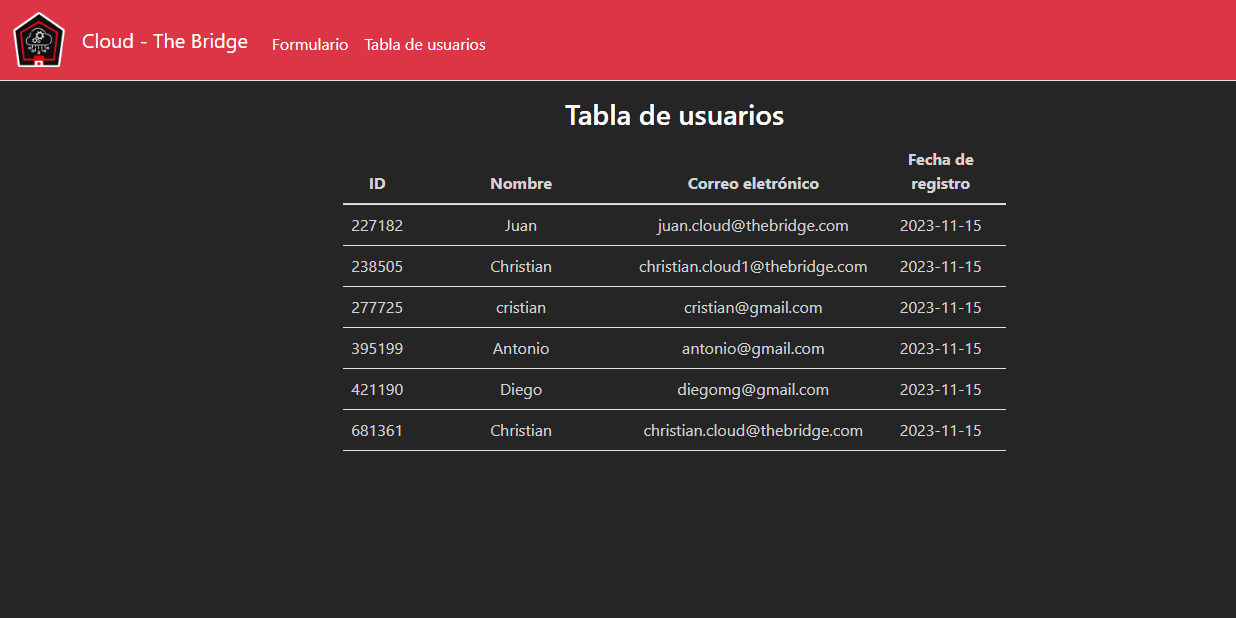
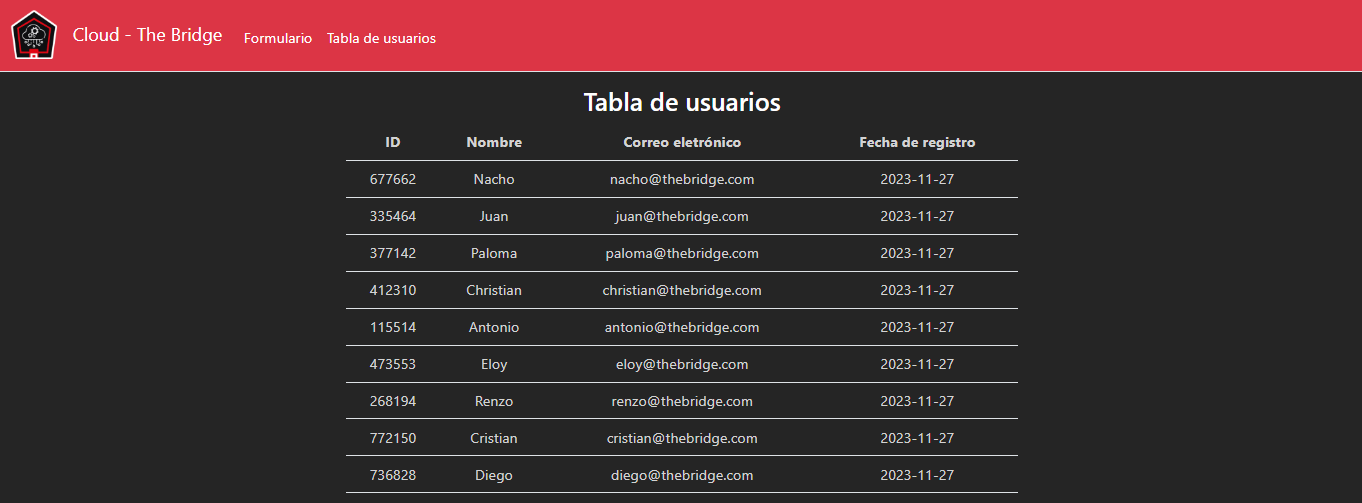
terminamos parte 2

diff --git a/web/templates/loading.html b/web/templates/loading.html
@@ -4,6 +4,18 @@
     Tabla de usuarios
 {% endblock %}
 
+{% block script %}
+    <script>
+        function navigate() {
+        window.location.href = 'data';  // redirect when done!
+        }
+        function sleep(ms) {
+            return new Promise(resolve => setTimeout(resolve, ms));
+        }
+        sleep(3000).then(navigate); // load the slow url then navigate
+    </script>
+{% endblock %}
+
 {% block main %}
     <h3 class="section-title">Tabla de usuarios</h3>
     <table class="table mx-auto w-50">
@@ -15,15 +27,8 @@
                 <th scope="col">Fecha de registro</th>
             </tr>
         </thead>
-        <tbody>
-        {% for item in items %}
-            <tr>
-                <td class="center-align">{{ item["ID"] }}</td>
-                <td class="center-align">{{ item["nombre"] }}</td>
-                <td class="center-align">{{ item["email"] }}</td>
-                <td class="center-align">{{ item["registro"] }}</td>
-            </tr>
-        {% endfor %}
-        </tbody>
     </table>
+    <br>
+    <div class="lds-facebook"><div></div><div></div><div></div>
+
 {% endblock %}

diff --git a/web/static/styles.css b/web/static/styles.css
@@ -38,6 +38,7 @@ main {
     text-align: center;
 }
 
+/* Start of waiting animation */
 .lds-facebook {
     display: inline-block;
     position: relative;
@@ -49,7 +50,7 @@ main {
     position: absolute;
     left: 8px;
     width: 16px;
-    background: #fff;
+    background: #d9534f;
     animation: lds-facebook 1.2s cubic-bezier(0, 0.5, 0.5, 1) infinite;
   }
   .lds-facebook div:nth-child(1) {
@@ -74,4 +75,4 @@ main {
       height: 32px;
     }
   }
-  
+  /* End of waiting animation */

diff --git a/web/templates/layout.html b/web/templates/layout.html
@@ -7,6 +7,7 @@
     <link crossorigin="anonymous" href="https://cdn.jsdelivr.net/npm/bootstrap@5.1.3/dist/css/bootstrap.min.css" integrity="sha384-1BmE4kWBq78iYhFldvKuhfTAU6auU8tT94WrHftjDbrCEXSU1oBoqyl2QvZ6jIW3" rel="stylesheet">
     <link href="../static/styles.css" rel="stylesheet">
     <title>{% block title %}{% endblock %}</title>
+    {% block script %}{% endblock %}
 </head>
 
 <body>

diff --git a/web/templates/index.html b/web/templates/index.html
@@ -12,6 +12,4 @@
         </div>
         <button class="btn btn-danger" type="submit">Enviar</button>
     </form>
-    <div class="lds-facebook"><div></div><div></div><div></div>
-
 {% endblock %}

diff --git a/web/app.py b/web/app.py
@@ -77,11 +77,20 @@ def index():
             try:
                 # Guardamos los datos del usuario en un archivo JSON en cloud storage                
                 s3.put_object(Bucket=nombre_bucket, Key=f'usuarios{todayUTC}.json', Body=json.dumps(usuario))
-                time.sleep(5)
-                return redirect("/data")
+                return redirect("/loading")
             except:
                 flash("¡Ha ocurrido un error! No se han almacenado los datos.")
                 return render_template("index.html")
+
+@app.route("/loading")
+def loading():
+    """
+    Definición: Endpoint para la página de espera mientras carga la tabla.
+
+    Return: loading.html
+    """
+    return render_template("loading.html")
+
 
 @app.route("/data")
 def data():

diff --git a/README.md b/README.md
@@ -378,11 +378,19 @@ output "arn-lambda" {
 
 La página web que utilizaremos es la siguiente:
 
+Formulario:
+
 ![Alt text](img/06-Captura-formulario.png)
+
+Pantalla de carga:
+
+![Alt text](img/06-Captura-cargando.png)
+
+Tabla de datos:
 
 ![Alt text](img/06-Captura-tabla.png)
 
-Esta página tiene 3 ficheros html y un fichero css, que son poco informativos, y el siguiente fichero de python para el backend:
+Esta página tiene 4 ficheros html y un fichero css, que son poco informativos, y el siguiente fichero de python para el backend:
 
 **app.py**:
 
@@ -466,11 +474,20 @@ def index():
             try:
                 # Guardamos los datos del usuario en un archivo JSON en cloud storage                
                 s3.put_object(Bucket=nombre_bucket, Key=f'usuarios{todayUTC}.json', Body=json.dumps(usuario))
-                time.sleep(5)
-                return redirect("/data")
+                return redirect("/loading")
             except:
                 flash("¡Ha ocurrido un error! No se han almacenado los datos.")
                 return render_template("index.html")
+
+@app.route("/loading")
+def loading():
+    """
+    Definición: Endpoint para la página de espera mientras carga la tabla.
+
+    Return: loading.html
+    """
+    return render_template("loading.html")
+
 
 @app.route("/data")
 def data():
@@ -495,7 +512,6 @@ def data():
 if __name__ == '__main__':
     # Ejecuta la aplicación
     app.run(host="0.0.0.0", port=5000, debug=False)
-
 ```
 
 ## App Runner:
@@ -504,25 +520,178 @@ Si contenerizamos los ficheros anteriores y los desplegamos manualmente a travé
 
 ![Alt text](img/07-github-connection-A.png)
 
-Seguimos los pasos y nos conectamos al repositorio que acabamos de crear. Una vez completado la conexión con github, debemos agregarle el permiso *AWSAppRunnerFullAccess* a nuestro usuario IAM de terraform cloud para que pueda utilizar apprunner. Hecho esto, podemos empezar a desarrollar nuestro módulo de apprunner. 
+Seguimos los pasos y nos conectamos al repositorio que acabamos de crear. Una vez completado la conexión con github, debemos agregarle nuevos permisos a nuestro usuario IAM de terraform cloud para que pueda utilizar apprunner. En primer lugar agregaremos la política *AWSAppRunnerFullAccess* y luego modificaremos la política que creamos anteriormente para agregarle los permisos *iam:PassRole* y *iam:UpdateAssumeRolePolicy*.
 
-Dar permiso *iam:PassRole* *iam:UpdateAssumeRolePolicy* y *AWSAppRunnerFullAccess* al usuario
-crear un rol para el recurso que tenga permisos de escritura en el bucket y permisos de lectura en la base de datos:
+Hecho esto, podemos empezar a desarrollar nuestro módulo de apprunner. Para empezar, tenemos que crear un rol para el recurso que tenga permisos de escritura en el bucket y permisos de lectura en la base de datos:
 
+**main-apprunner.tf**:
 
+```tf
+resource "aws_iam_role" "rol-apprunner" {
+    name = "rol-${var.nombre-apprunner}"
 
+    managed_policy_arns  = var.policies
 
+    assume_role_policy = jsonencode({
+    "Version": "2012-10-17",
+    "Statement": [
+        {
+            "Effect": "Allow",
+            "Action": [
+                "sts:AssumeRole"
+            ],
+            "Principal": {
+                "Service": [
+                    "tasks.apprunner.amazonaws.com"
+                ]
+            }
+        }
+    ]
+})
+}
+```
 
-https://registry.terraform.io/providers/hashicorp/aws/latest/docs/resources/apprunner_service
+Seguidamente creamos el recurso apprunner:
 
-1 - Crear conexión a un github con los ficheros de la web
-2 - Crear rol para apprunner
-3 - crear apprunner con trigger automatico
-  - runtime python 3
-  - build command "pip install -r requirements.txt"
-  - start command "python app.py"
-  - port 5000
-  - service name "despliegue-apprunner"
-  - virtualCPU 1
-  - Virtual memory 2
-  - asignar rol
+**main-apprunner.tf**:
+
+```tf
+resource "aws_apprunner_service" "apprunner" {
+  service_name = var.nombre-apprunner
+
+  source_configuration {
+    authentication_configuration {
+      connection_arn = var.connection_arn_github
+    }
+    code_repository {
+      code_configuration {
+        code_configuration_values {
+          build_command = var.build_command
+          port          = var.port
+          runtime       = var.runtime
+          start_command = var.start_command
+        }
+        configuration_source = "API"
+      }
+      repository_url = var.repository_url
+      source_code_version {
+        type  = var.source_code_version.type
+        value = var.source_code_version.value
+      }
+    }
+  }
+
+  instance_configuration {
+    cpu = var.conf_instance.cpu
+    memory = var.conf_instance.memory
+
+    instance_role_arn = aws_iam_role.rol-apprunner.arn
+  }
+
+  network_configuration {
+    egress_configuration {
+      egress_type       = "DEFAULT"
+    }
+  }
+
+  tags = {
+    Name = var.nombre-apprunner
+  }
+}
+```
+
+Las variables del módulo se definirán de la siguiente manera:
+
+**variables-apprunner.tf**:
+
+```tf
+variable "nombre-apprunner" {
+    description = "Nombre para el servicio de apprunner"
+    type = string
+}
+
+variable "connection_arn_github" {
+    description = "ARN de la conexión entre github y AppRunner. Imprescindible para conexion con repositorios github"
+    type = string
+}
+
+variable "build_command" {
+    description = "Comando de AppRunner que se ejecuta para crear la aplicación"
+    type = string
+}
+
+variable "port" {
+    description = "Puerto que escucha su aplicación en el contenedor"
+    type = string
+}
+
+variable "runtime" {
+    description = "Tipo de entorno de ejecución para crear y ejecutar un servicio App Runner"
+    type = string
+}
+
+variable "start_command" {
+    description = "Comando de AppRunner que se ejecuta para iniciar la aplicación"
+    type = string
+}
+
+variable "repository_url" {
+    description = "Ubicación del repositorio que contiene el código fuente"
+    type = string
+}
+
+variable "source_code_version" {
+    description = "bloque admite los siguientes argumentos: type: Tipo de identificador. Valores válidos: BRANCH; value: rama que se utiliza"
+    type = map(string)
+}
+
+variable "conf_instance" {
+    description = "configuración de las instancias creadas. cpu = numero de procesadores, memory = memoria RAM en GB"
+    type = map(string)
+}
+
+variable "policies" {
+    description = "Políticas de permisos para la instancia de apprunner"
+    type = list(string)
+}
+```
+
+Finalmente, en nuestro terraform raiz, definiremos valores para las variables, importaremos los datos de los permisos para el rol y crearemos el módulo:
+
+**main.tf**:
+
+```tf
+locals {
+  nombre-apprunner      = "despliegue-apprunner"
+  connection_arn_github = "arn:aws:apprunner:eu-west-3:757967241514:connection/github-containers/8a91462f6503486ca4558e011a7700e6"
+  build_command         = "pip install -r web/requirements.txt"
+  puerto                = "5000"
+  runtime               = "PYTHON_3"
+  start_command         = "python web/app.py"
+  url_repositorio       = "https://github.com/juanadevesat/juan-EjFinal-terraform"
+  source_code_version   = {type = "BRANCH", value = "main"}
+  conf_instancia        = {cpu = "1 vCPU", memory = "2 GB"}
+  politicas_instancia    = ["AmazonDynamoDBReadOnlyAccess", "AmazonS3FullAccess"]
+}
+
+data "aws_iam_policy" "politicas-apprunner" {
+  count = length(local.politicas_instancia)
+
+  name = local.politicas_instancia[count.index]
+}
+
+module "apprunner" {
+  source = "./modules/apprunner"
+
+  nombre-apprunner      = local.nombre-apprunner
+  connection_arn_github = local.connection_arn_github
+  build_command         = local.build_command
+  port                  = local.puerto
+  runtime               = local.runtime
+  start_command         = local.start_command
+  repository_url        = local.url_repositorio
+  source_code_version   = local.source_code_version
+  conf_instance         = local.conf_instancia
+  policies              = [ for politica in data.aws_iam_policy.politicas-apprunner : politica.arn ]
+}
+```
